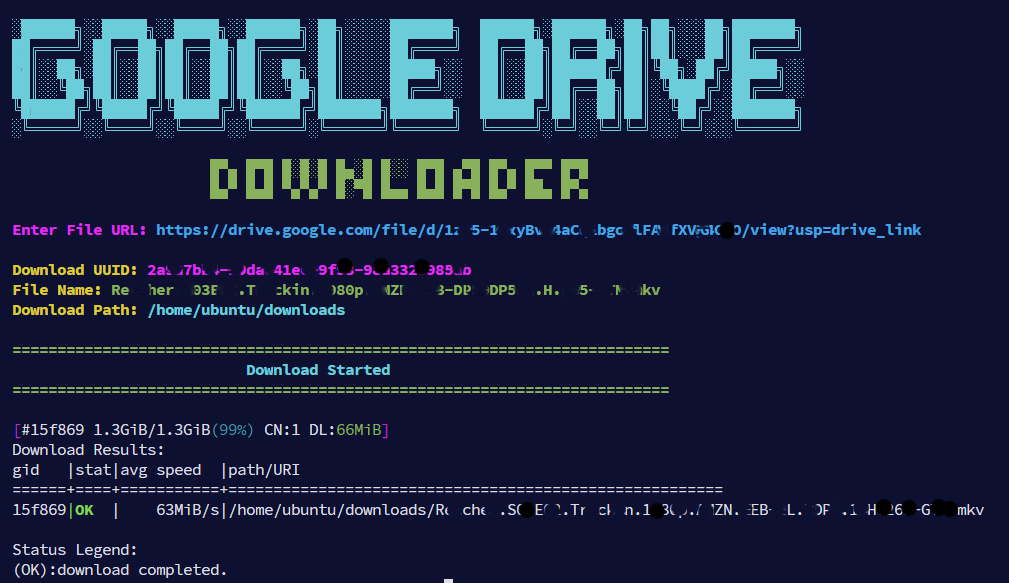
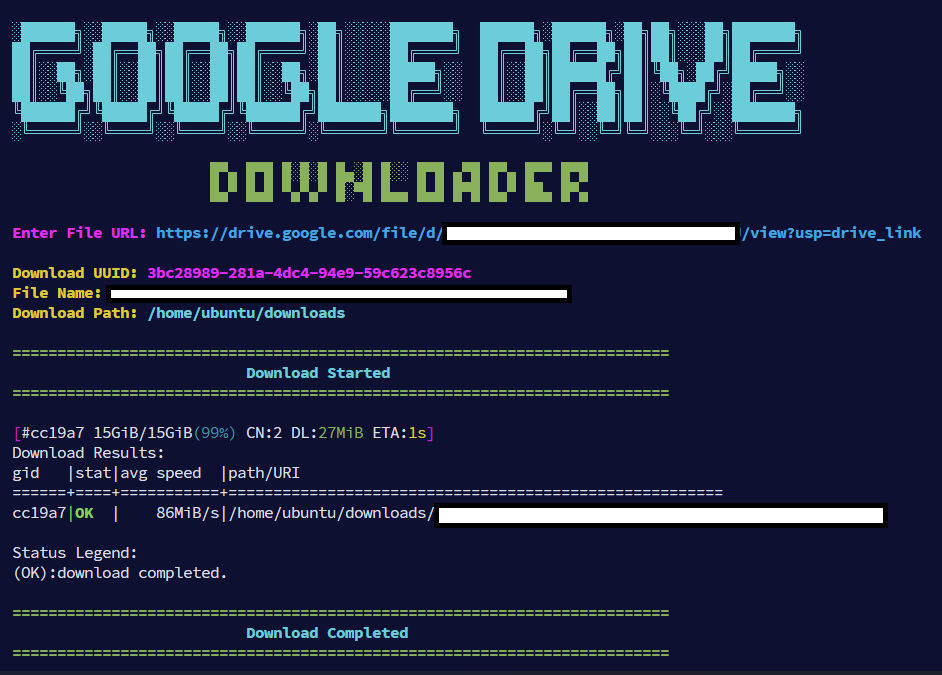
aria2-updated

Changed region(s): [[0.0, 0.0309, 0.9851, 1.0]]

diff --git a/google-downloader.py b/google-downloader.py
@@ -3,6 +3,9 @@ import re
 import os
 from colorama import Fore, Style
 
+# Download Folder Path
+download_dir = "/home/ubuntu/downloads"
+
 print(Style.BRIGHT + Fore.LIGHTCYAN_EX + '''
 
 ░██████╗░░█████╗░░█████╗░░██████╗░██╗░░░░░███████╗  ██████╗░██████╗░██╗██╗░░░██╗███████╗
@@ -45,10 +48,7 @@ if exit_code != 0:
     exit(1)
 
 # Google Drive File ID
-drive_file_id = extract_drive_id(input(Style.BRIGHT + Fore.LIGHTMAGENTA_EX + "Enter File URL: " + Fore.LIGHTBLUE_EX))
-
-# Download Folder Path
-download_dir = "/home/ubuntu/downloads"
+drive_file_id = extract_drive_id(input(Style.BRIGHT + Fore.LIGHTMAGENTA_EX + "\n\nEnter File URL: " + Fore.LIGHTBLUE_EX))
 
 
 uuid_value, file_name = extract_uuid_and_filename(drive_file_id)
@@ -80,12 +80,24 @@ print(Style.BRIGHT + Fore.GREEN +'\n============================================
 print(Style.BRIGHT + Fore.LIGHTCYAN_EX + "                          Download Started  ")
 print(Style.BRIGHT + Fore.GREEN +'=========================================================================\n'+ Style.RESET_ALL)
 
-os.system(f'''aria2c \\
-    -x4 \\
-    -d {download_dir} \\
-    --file-allocation=none \\
-    --summary-interval=0 \\
-    --console-log-level=error \\
-    --user-agent="Mozilla/5.0 (Windows NT 10.0; Win64; x64) AppleWebKit/537.36 (KHTML, like Gecko) Chrome/134.0.0.0 Safari/537.36 Edg/134.0.0.0" \\
-    "https://drive.usercontent.google.com/download?id={drive_file_id}&export=download&authuser=0&confirm=t&uuid={uuid_value}"
-    ''')
+aria2c_exit_code = -1
+
+while aria2c_exit_code != 0:
+    aria2c_exit_code = os.system(f'''aria2c \\
+        -x4 \\
+        --continue=true \\
+        -d {download_dir} \\
+        --file-allocation=none \\
+        --summary-interval=0 \\
+        --console-log-level=error \\
+        --user-agent="Mozilla/5.0 (Windows NT 10.0; Win64; x64) AppleWebKit/537.36 (KHTML, like Gecko) Chrome/134.0.0.0 Safari/537.36 Edg/134.0.0.0" \\
+        "https://drive.usercontent.google.com/download?id={drive_file_id}&export=download&authuser=0&confirm=t&uuid={uuid_value}"
+        ''')
+    if aria2c_exit_code != 0:
+        print(Style.BRIGHT + Fore.LIGHTRED_EX +"\nDownload Failed...Trying Again" + Style.RESET_ALL)
+        uuid_value, file_name = extract_uuid_and_filename(drive_file_id)
+    else:
+        print(Style.BRIGHT + Fore.GREEN +'\n=========================================================================')
+        print(Style.BRIGHT + Fore.LIGHTCYAN_EX + "                          Download Completed  ")
+        print(Style.BRIGHT + Fore.GREEN +'=========================================================================\n'+ Style.RESET_ALL)
+        break
